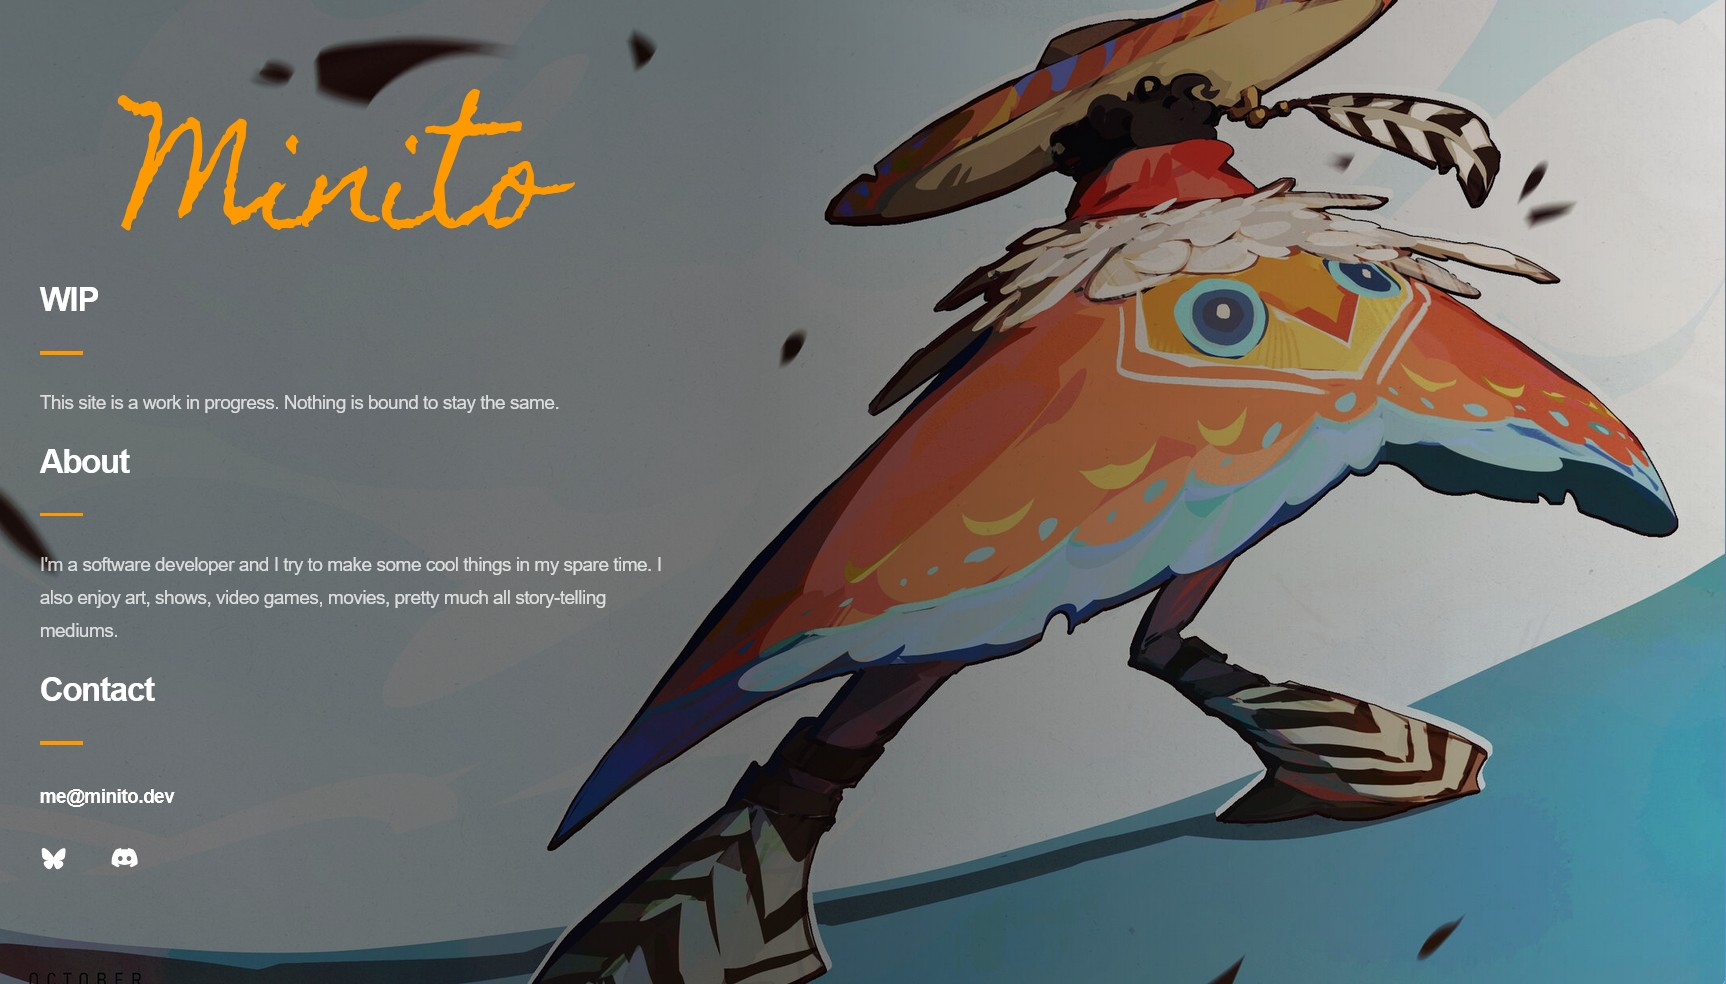
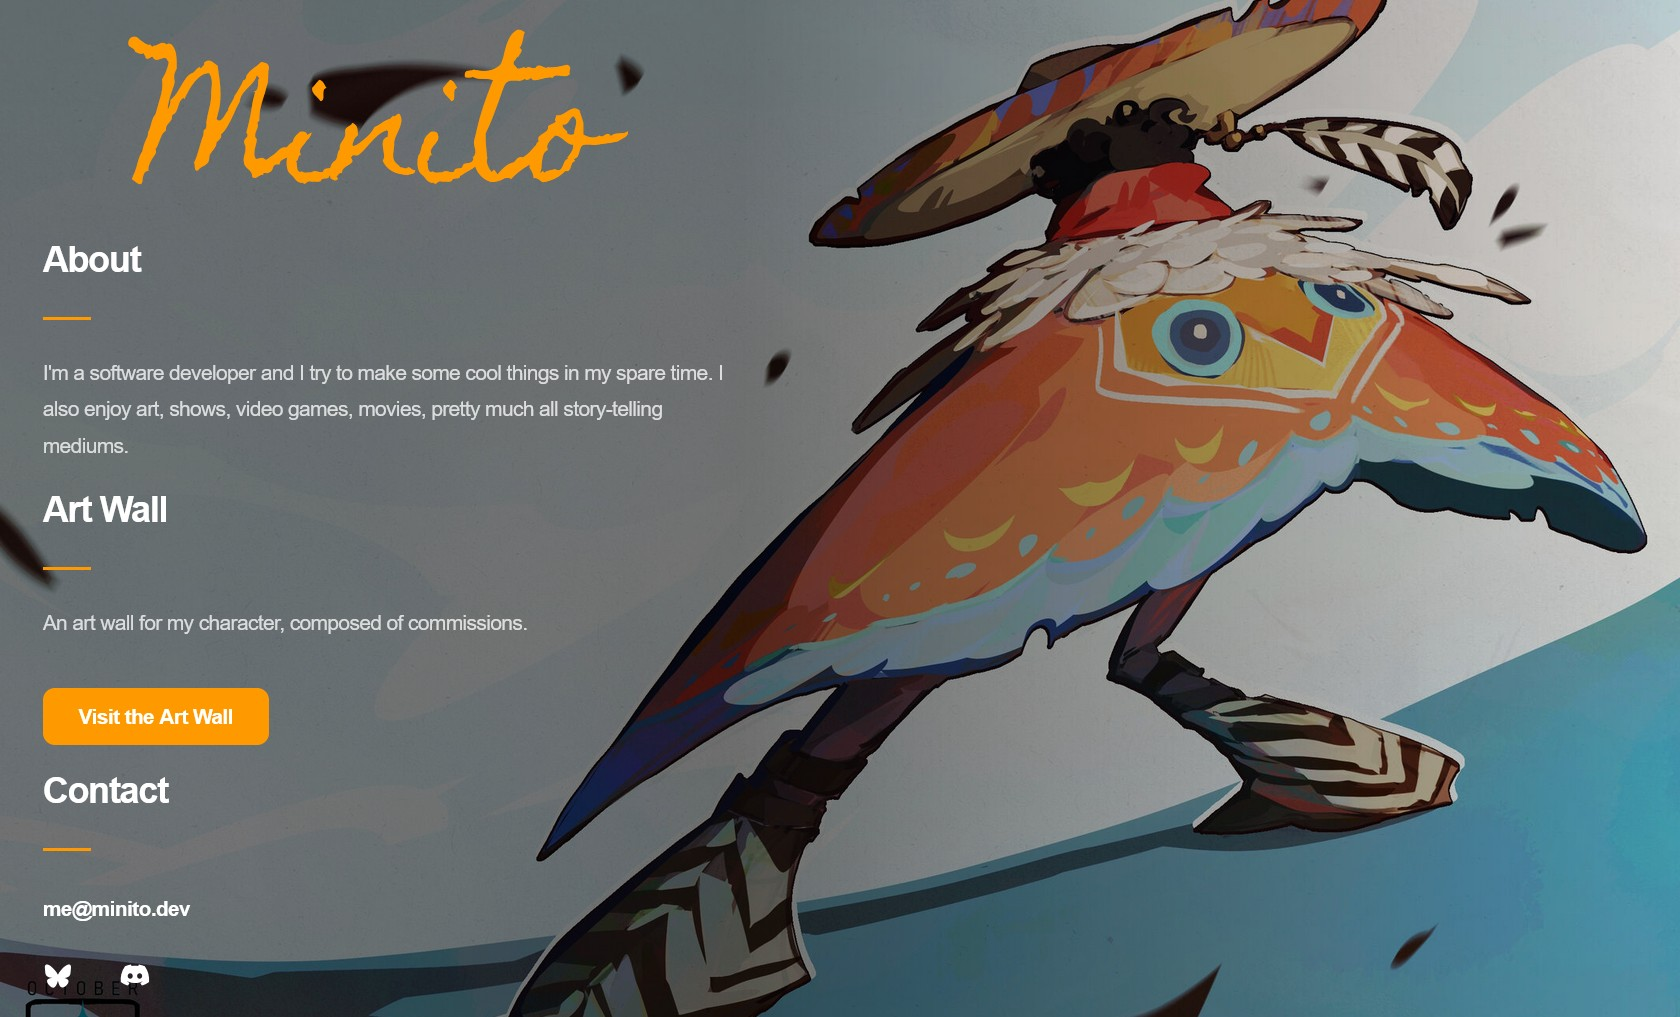
Add Artwall Button

diff --git a/index.html b/index.html
@@ -1249,7 +1249,32 @@
         }
 
         .btn-desktop {
-            display: inline-block; 
+            display: inline-block;
+        }
+
+        .button-component {
+            display: inline-block;
+        }
+
+        .button-component a {
+            display: inline-block;
+            padding: 0.75rem 1.5rem;
+            background-color: #FF9900;
+            color: #FFFFFF;
+            font-family: 'Arial', sans-serif;
+            font-size: 0.875em;
+            font-weight: 700;
+            letter-spacing: -0.025rem;
+            text-decoration: none;
+            border-radius: 0.5rem;
+            transition: background-color 0.25s ease, transform 0.25s ease, box-shadow 0.25s ease;
+        }
+
+        .button-component a:hover {
+            background-color: #FFE91F;
+            color: #000000;
+            transform: translateY(-2px);
+            box-shadow: 0 4px 12px rgba(255, 153, 0, 0.4);
         }
 
         @media (max-width: 1920px) {
@@ -1840,17 +1865,6 @@
                         </div>
                     </div>
                 </div>
-                <div id="container02" class="container-component instance-3 default">
-                    <div class="wrapper">
-                        <div class="inner">
-                            <p id="text02" class="text-component instance-3">WIP</p>
-                            <hr id="divider03" class="divider-component instance-2">
-                            <p id="text06" class="text-component instance-8">This site is a work in progress. Nothing
-                                is bound to stay the same.
-                            </p>
-                        </div>
-                    </div>
-                </div>
                 <div id="container03" class="container-component instance-3 default">
                     <div class="wrapper">
                         <div class="inner">
@@ -1859,6 +1873,18 @@
                             <p id="text08" class="text-component instance-8">I&#39;m a software developer and I try to
                                 make some cool things in my spare time. I also enjoy art, shows, video games, movies,
                                 pretty much all story-telling mediums.</p>
+                        </div>
+                    </div>
+                </div>
+                <div id="container05" class="container-component instance-3 default">
+                    <div class="wrapper">
+                        <div class="inner">
+                            <p id="text09" class="text-component instance-3">Art Wall</p>
+                            <hr id="divider04" class="divider-component instance-2">
+                            <p id="text10" class="text-component instance-8">An art wall for my character, composed of commissions.</p>
+                            <div class="button-component">
+                                <a href="https://artwall.minito.dev">Visit the Art Wall</a>
+                            </div>
                         </div>
                     </div>
                 </div>
